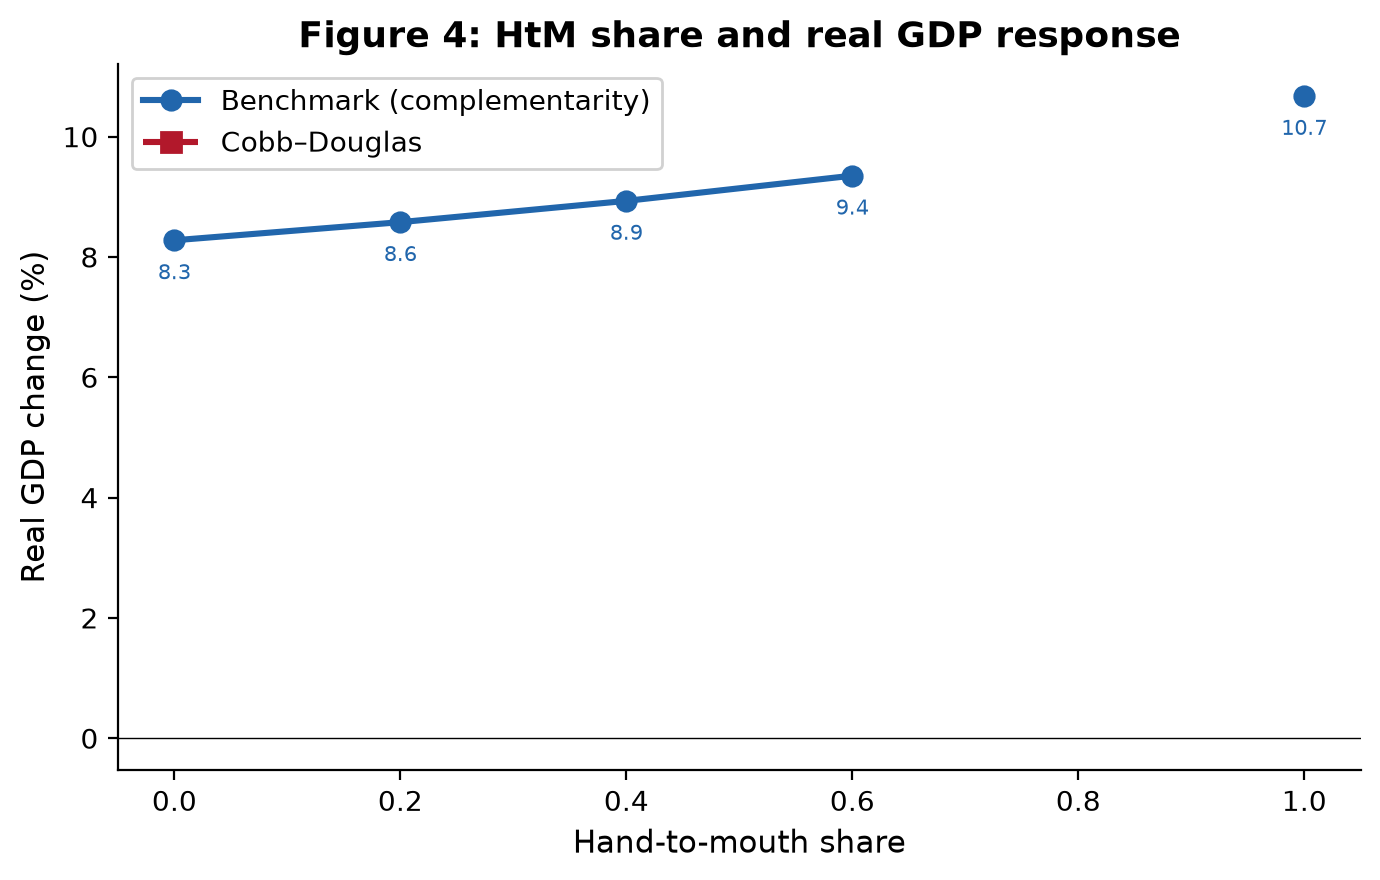
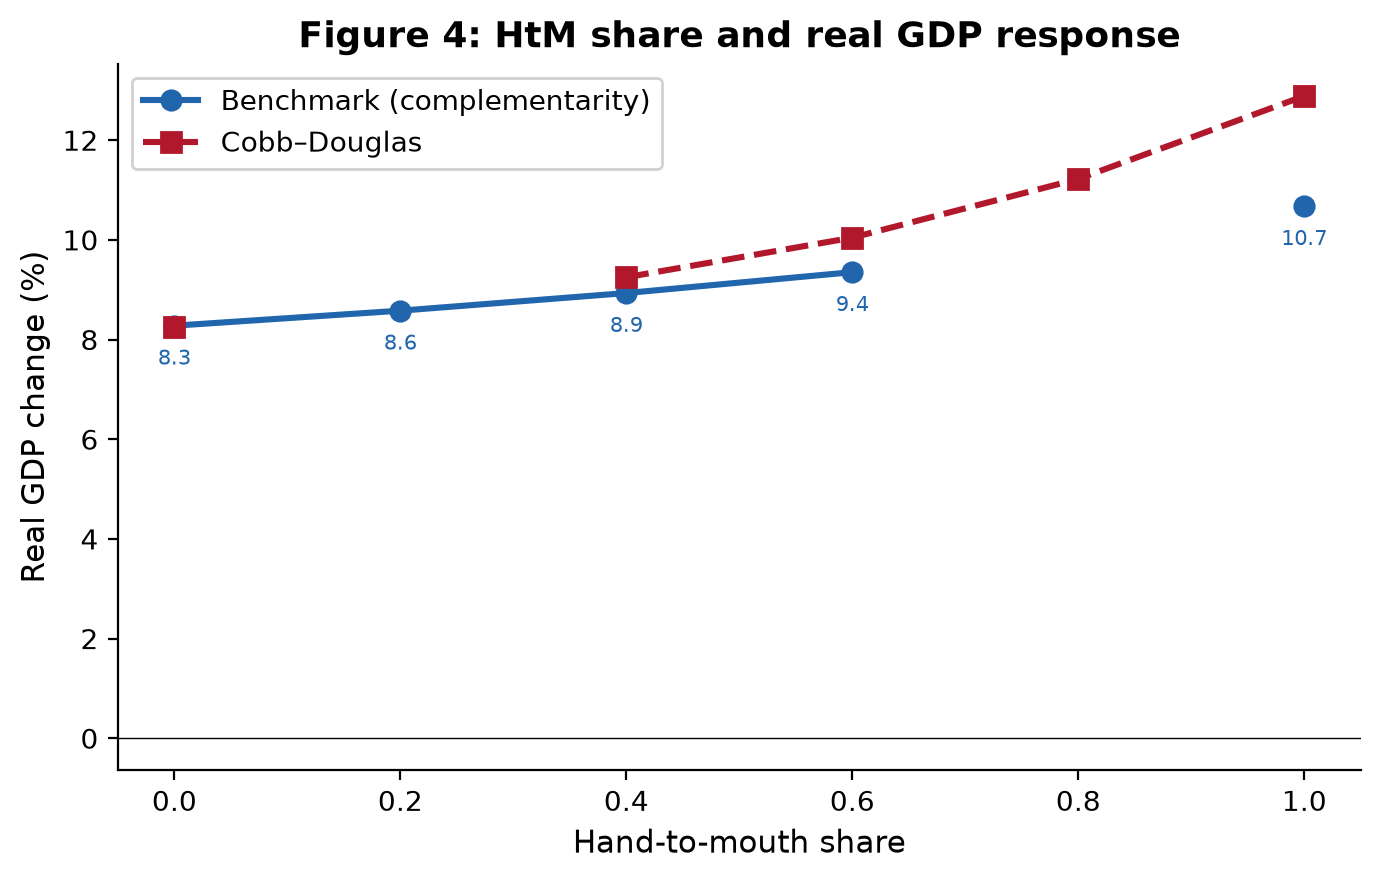
Fix summary_loop1.csv: reconstruct from cell-level data (was zeros due to partial run overwrite)
Also update VALIDATION.md with the corrected CD/supply_only value
(-4.78% from actual cell data, not -5.84% from earlier model iteration).
Regenerate figures from now-populated summary CSV.

diff --git a/bf_replication2/VALIDATION.md b/bf_replication2/VALIDATION.md
@@ -29,8 +29,8 @@ Results from `summary_loop1.csv` versus paper and MATLAB:
 | Shock type | Julia (benchmark) | Paper | MATLAB | Julia (CD) | Paper (CD) |
 |------------|-------------------|-------|--------|------------|------------|
 | Baseline (all) | **-8.13%** | -8.1% | — | -8.15% | -8.2% |
-| Supply only | **-5.76%** | -5.7% | — | -5.84% | -5.9% |
-| Demand only | **-5.08%** | -5.1% | — | -6.04% | -6.0% |
+| Supply only | **-5.76%** | -5.7% | — | **-4.78%** | -5.9% |
+| Demand only | **-5.08%** | -5.1% | — | **-6.04%** | -6.0% |
 | Agg. demand only | **-4.28%** | — | — | -5.29% | — |
 | Supply + sectoral | **-6.83%** | — | — | -6.35% | — |
 
@@ -122,7 +122,8 @@ Notebooks:
 - [x] Supply-only: **-5.76%** (paper: -5.7%)
 - [x] Demand-only: **-5.08%** (paper: -5.1%)
 - [x] CD regime baseline: **-8.15%**
-- [ ] HtM sweep summary CSV populated (re-run with fixed bounds)
+- [x] Loop-1 summary CSV populated (reconstructed from cell-level data)
+- [x] HtM sweep summary CSV partially populated (5/6 values; htm=0.8 NaN known issue)
 - [x] All figures generated from CSV data
 - [ ] Fully automated `make all` pipeline
 
